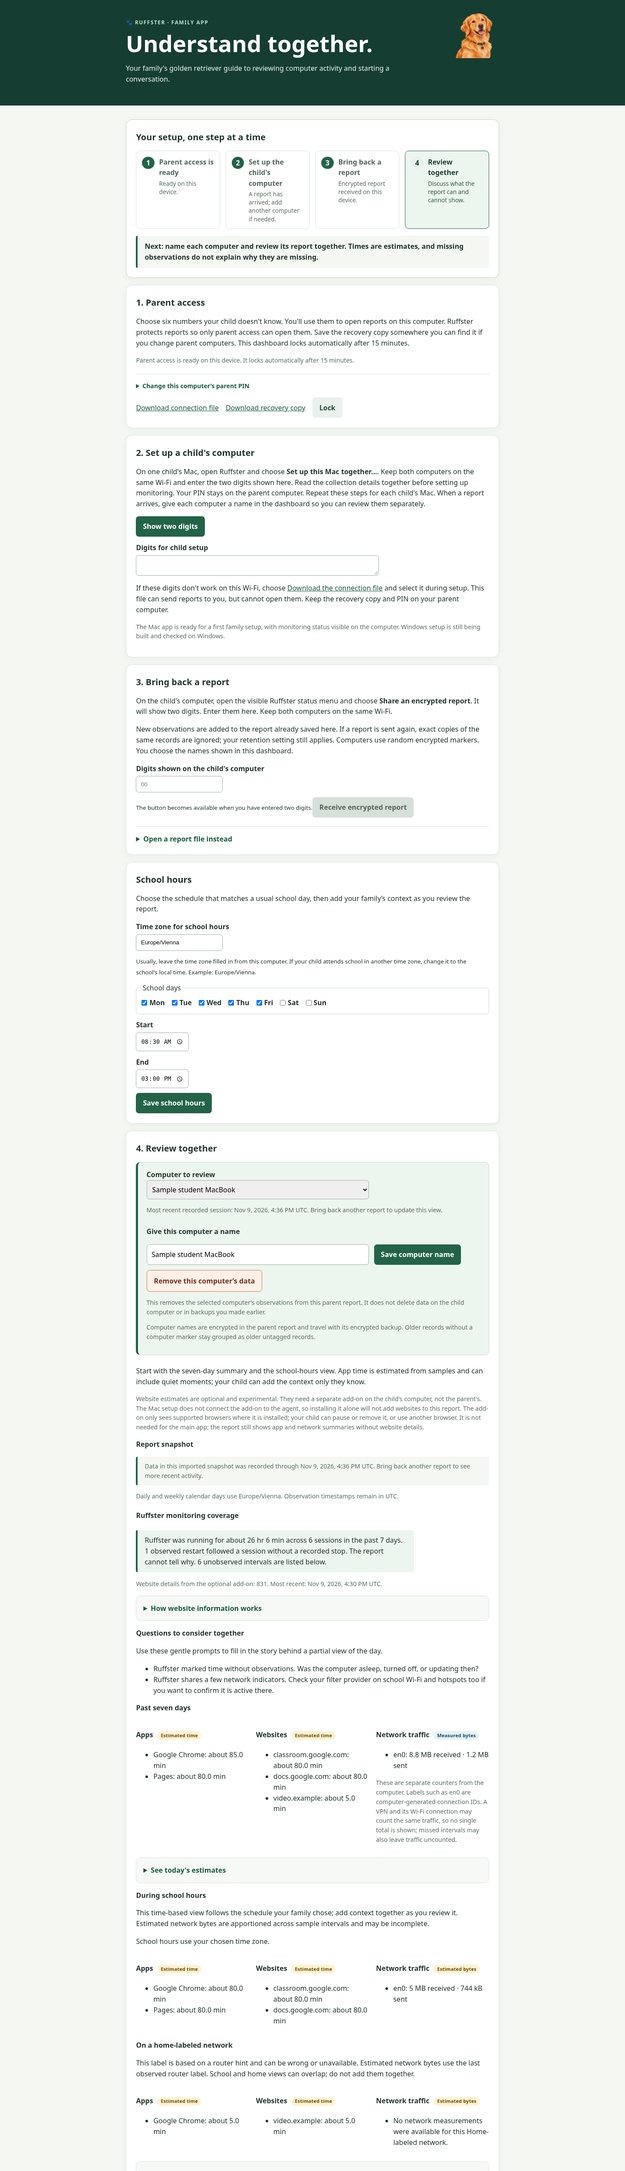
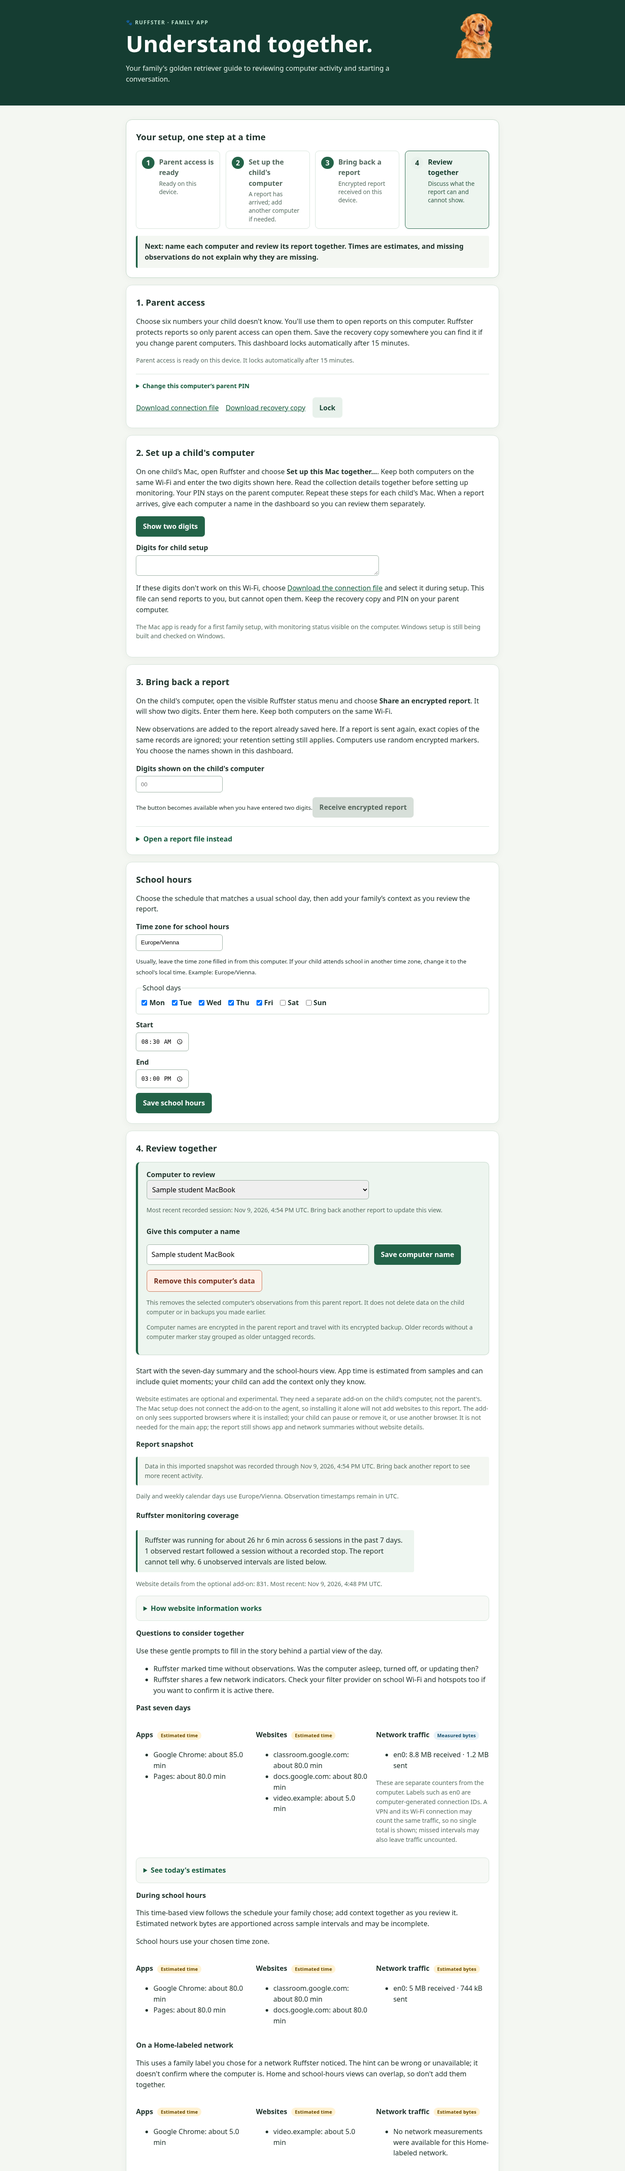
Publish Ruffster 0.1.25 family dashboard

Changed region(s): [[0.2188, 0.936, 0.375, 0.9984], [0.625, 0.936, 0.7812, 0.9984], [0.4375, 0.936, 0.5312, 0.9984]]

diff --git a/docs/progress.html b/docs/progress.html
@@ -35,15 +35,15 @@
    </section>
    <div class="wrap prose">
     <div class="notice">
-     <strong>Ruffster for Mac 0.1.24 is available for families.</strong>
-     The 0.1.24 release makes content-filtering guidance easier to follow across home Wi-Fi, school Wi-Fi, and hotspots, and explains that Ruffster settings are clues rather than proof. It also uses simpler family language for parent access. Its 17,657,002-byte disk image matches GitHub's published SHA-256 (<code>6f25bbab21bdf19c2b1a4d5219f8d70c9d7e22e8d34a7013b4215a55f96ce3e2</code>). Automated and synthetic checks are complete. A Mac sent a made-up encrypted report over home Wi-Fi to a temporary parent dashboard; the report opened there and stayed encrypted on disk. The published Mac dashboard also opened an encrypted synthetic report on the test Mac and showed its activity estimate. Mac parent key sharing worked over the home LAN with a synthetic client, and the packaged Mac client completed a same-Mac key handoff. These checks do not replace Mac-to-Mac setup and the first family report review. No family activity was used. <a href="https://github.com/mikeymckay/ruffster/releases/download/mac-family-0.1.24/Ruffster-Mac-Family-App-Apple-Silicon.dmg">Download Ruffster for Mac 0.1.24.</a> See the <a href="https://github.com/mikeymckay/ruffster/releases/tag/mac-family-0.1.24">release notes and checksum</a>.
+     <strong>Ruffster for Mac 0.1.25 is available for families.</strong>
+     The 0.1.25 release makes network labels easier to understand. Parents can label a recognized network Home, School, or Other; the report explains that these are family labels, not location checks. It keeps school-hour and network traffic views clearly marked as estimates. Its 17,655,499-byte disk image matches GitHub's published SHA-256 (<code>3bf0e9cd23266333141da69dae058007ec80515617d18225ce485e1120356d2c</code>). Automated and synthetic checks are complete. A Mac sent a made-up encrypted report over home Wi-Fi to a temporary parent dashboard; the report opened there and stayed encrypted on disk. The published Mac dashboard also opened an encrypted synthetic report on the test Mac and showed its activity estimate. Mac parent key sharing worked over the home LAN with a synthetic client, and the packaged Mac client completed a same-Mac key handoff. These checks do not replace Mac-to-Mac setup and the first family report review. No family activity was used. <a href="https://github.com/mikeymckay/ruffster/releases/download/mac-family-0.1.25/Ruffster-Mac-Family-App-Apple-Silicon.dmg">Download Ruffster for Mac 0.1.25.</a> See the <a href="https://github.com/mikeymckay/ruffster/releases/tag/mac-family-0.1.25">release notes and checksum</a>.
     </div>
     <h2>What is working</h2>
     <ol class="steps">
      <li><strong>Visible Mac monitoring.</strong> In a logged-in session, the Mac agent records synthetic foreground-app observations in parent-key-encrypted storage, shows a separate status companion, reconstructs an observable gap, restarts after a forced stop through launchd, and the parent report counts sessions that follow an unclosed monitoring session.</li>
-     <li><strong>Mac app and setup.</strong> Mac 0.1.24 describes the PIN as six numbers the child doesn't know and names the account that would be monitored in its setup confirmation and tells the parent to cancel if it is not the child's account. It waits for the first encrypted sample before confirming monitoring is ready. The child-visible collection disclosure explains what is recorded, what stays private, optional app network totals, and unknown monitoring interruptions. Setup explains that automatic cleanup keeps a rough day marker beside each encrypted record, while app names, network details, and exact times stay encrypted for the parent. In the parent report, empty website estimates are hidden when no website observations were included; the no-details note and explanation remain available. Its bundle resources are sealed with a local ad-hoc signature and strictly verified during the build; families still approve this Apple-silicon app once in macOS Privacy &amp; Security. If nearby-computer pairing fails, families can retry or choose the connection file from the same screen. Nearby-computer sharing also cleans up between attempts and avoids Windows reserved dynamic ports. The getting-started guide now follows parent access, child-account setup, and report sharing in three steps; the setup copy explains how to show a new pair of digits if the first pair stops working. Automated tests, app packaging, startup/restart, encrypted sample activity, a coverage gap, update restart, and removal were checked with synthetic data. The last confirmed install was Mac 0.1.20 in shared Applications on the family Mac. SSH has timed out since; 0.1.24 is not confirmed installed there. Visible child-account setup, parent-key connection, and the first family report remain outstanding. No monitoring or family activity is verified yet.</li>
+     <li><strong>Mac app and setup.</strong> Mac 0.1.25 describes the PIN as six numbers the child doesn't know and names the account that would be monitored in its setup confirmation and tells the parent to cancel if it is not the child's account. It waits for the first encrypted sample before confirming monitoring is ready. The child-visible collection disclosure explains what is recorded, what stays private, optional app network totals, and unknown monitoring interruptions. Setup explains that automatic cleanup keeps a rough day marker beside each encrypted record, while app names, network details, and exact times stay encrypted for the parent. In the parent report, empty website estimates are hidden when no website observations were included; the no-details note and explanation remain available. Its bundle resources are sealed with a local ad-hoc signature and strictly verified during the build; families still approve this Apple-silicon app once in macOS Privacy &amp; Security. If nearby-computer pairing fails, families can retry or choose the connection file from the same screen. Nearby-computer sharing also cleans up between attempts and avoids Windows reserved dynamic ports. The getting-started guide now follows parent access, child-account setup, and report sharing in three steps; the setup copy explains how to show a new pair of digits if the first pair stops working. Automated tests, app packaging, startup/restart, encrypted sample activity, a coverage gap, update restart, and removal were checked with synthetic data. The last confirmed install was Mac 0.1.20 in shared Applications on the family Mac. SSH has timed out since; 0.1.25 is not confirmed installed there. Visible child-account setup, parent-key connection, and the first family report remain outstanding. No monitoring or family activity is verified yet.</li>
      <li><strong>Parent dashboard and reports.</strong> Parents can unlock reports, set school hours and retention, receive encrypted reports, keep computers separate, and review clearly labeled estimates and measured counters. An unlocked parent can change this computer's PIN while keeping the same reports and child computers; Ruffster asks them to save a new recovery copy before the next child setup.</li>
-     <li><strong>Automated checks.</strong> The latest full local suite ran 305 tests: 300 passed and five platform/tool checks were skipped on the Linux development host. The website accessibility scan checks all four public pages plus synthetic first-run, PIN-change, and populated parent-dashboard screens with and without website details at desktop and phone sizes; all 16 scans found zero Axe violations. GitHub CI run <a href="https://github.com/mikeymckay/ruffster/actions/runs/42653085751">42653085751</a> passed Linux, macOS, all Windows test groups, and both package builds. The updated install guide was checked live after its Pages deployment. The 0.1.24 Mac release <a href="https://github.com/mikeymckay/ruffster/actions/runs/42657100301">42657100301</a> published a DMG whose SHA-256 matches the release sidecar. Hosted CI cannot verify an interactive Task Scheduler session, so the real Windows agent lifecycle still needs a logged-in Windows computer.</li>
+     <li><strong>Automated checks.</strong> The latest full local suite ran 306 tests: 301 passed and five platform/tool checks were skipped on the Linux development host. The website accessibility scan checks all four public pages plus synthetic first-run, PIN-change, and populated parent-dashboard screens with and without website details at desktop and phone sizes; all 16 scans found zero Axe violations. GitHub CI run <a href="https://github.com/mikeymckay/ruffster/actions/runs/42653085751">42653085751</a> passed Linux, macOS, all Windows test groups, and both package builds. The updated install guide was checked live after its Pages deployment. The 0.1.25 Mac release <a href="https://github.com/mikeymckay/ruffster/actions/runs/42660052908">42660052908</a> published a DMG whose SHA-256 matches the release sidecar. Hosted CI cannot verify an interactive Task Scheduler session, so the real Windows agent lifecycle still needs a logged-in Windows computer.</li>
      <li><strong>Windows family setup.</strong> A per-user setup, visible tray indicator, parent dashboard launcher, and update flow are implemented. The hosted package check skips the live scheduled-task test; local Windows builds keep that check enabled. The complete setup and report sharing still need a hands-on family-computer review before a Windows download is offered.</li>
     </ol>
     <h2>What we’re improving next</h2>
@@ -55,8 +55,8 @@
     </ul>
     <p>The <a href="install.html">Getting started guide</a> walks through the Mac family setup. Windows is next.</p>
     <h2>Current automated test results</h2>
-    <p><strong>Local suite:</strong> 305 tests ran on the Linux development host: 300 passed and five platform/tool checks were skipped. GitHub Actions run <a href="https://github.com/mikeymckay/ruffster/actions/runs/42653085751">42653085751</a> passed Linux, macOS, all Windows test groups, and both package smoke builds. The 0.1.24 Mac release workflow <a href="https://github.com/mikeymckay/ruffster/actions/runs/42657100301">42657100301</a> published the app and checksum. GitHub Pages deploys this guide after the desktop and phone accessibility scan passes.</p>
-    <p><strong>Hands-on limits:</strong> Mac-to-dashboard transfer worked with made-up activity on the home Wi-Fi. The last confirmed app on the family Mac is 0.1.20 in shared Applications; its SSH session is the admin account, and SSH has timed out on recent attempts. The 0.1.24 release is available but is not confirmed installed there. Its setup confirmation names the account being configured. Mac 0.1.24 hides empty website lists unless website observations exist, while keeping an explanation visible. App names, network details, and exact times remain encrypted. The child-account first-run disclosure, parent-key connection, and first encrypted family report still need a family try. No monitoring agent is verified as running and no family activity has been collected. The Windows setup and interactive agent still need a review on a logged-in Windows computer.</p>
+    <p><strong>Local suite:</strong> 306 tests ran on the Linux development host: 301 passed and five platform/tool checks were skipped. GitHub Actions run <a href="https://github.com/mikeymckay/ruffster/actions/runs/42653085751">42653085751</a> passed Linux, macOS, all Windows test groups, and both package smoke builds. The 0.1.25 Mac release workflow <a href="https://github.com/mikeymckay/ruffster/actions/runs/42660052908">42660052908</a> published the app and checksum. GitHub Pages deploys this guide after the desktop and phone accessibility scan passes.</p>
+    <p><strong>Hands-on limits:</strong> Mac-to-dashboard transfer worked with made-up activity on the home Wi-Fi. The last confirmed app on the family Mac is 0.1.20 in shared Applications; its SSH session is the admin account, and SSH has timed out on recent attempts. The 0.1.25 release is available but is not confirmed installed there. Its setup confirmation names the account being configured. Mac 0.1.25 hides empty website lists unless website observations exist, while keeping an explanation visible. App names, network details, and exact times remain encrypted. The child-account first-run disclosure, parent-key connection, and first encrypted family report still need a family try. No monitoring agent is verified as running and no family activity has been collected. The Windows setup and interactive agent still need a review on a logged-in Windows computer.</p>
     <p><strong>Website:</strong> the home page, getting-started guide, Progress page, FAQ, first-run parent dashboard, PIN-change form, and populated parent reports with and without website details passed desktop and phone accessibility scans locally with zero Axe violations and no horizontal overflow. <a href="https://mikeymckay.github.io/ruffster/">Visit the published website</a>.</p>
     <h2>What a Ruffster report looks like</h2>
     <p>These examples use made-up parent and activity data to show the current setup and report screens.</p>

diff --git a/docs/install.html b/docs/install.html
@@ -75,7 +75,7 @@
     </p>
     <div class="notice">
      <strong>Get the Mac app.</strong>
-     <a href="https://github.com/mikeymckay/ruffster/releases/download/mac-family-0.1.24/Ruffster-Mac-Family-App-Apple-Silicon.dmg">Download Ruffster for Mac 0.1.24 (Apple silicon, .dmg)</a>. See the <a href="https://github.com/mikeymckay/ruffster/releases/tag/mac-family-0.1.24">release notes, source, and SHA-256 checksum</a>.
+     <a href="https://github.com/mikeymckay/ruffster/releases/download/mac-family-0.1.25/Ruffster-Mac-Family-App-Apple-Silicon.dmg">Download Ruffster for Mac 0.1.25 (Apple silicon, .dmg)</a>. See the <a href="https://github.com/mikeymckay/ruffster/releases/tag/mac-family-0.1.25">release notes, source, and SHA-256 checksum</a>.
     </div>
     <details>
      <summary>Opening Ruffster the first time</summary>
@@ -120,7 +120,7 @@
      macOS
     </h3>
     <p>
-     Mac 0.1.24 includes background monitoring, a visible menu-bar status, parent-encrypted activity, and a local dashboard with monitoring time, observable gaps, and restarts after an unclosed monitoring session. The parent dashboard explains its PIN in simple family terms: choose six numbers your child doesn't know, and keep the recovery copy somewhere you can find it. Parents can change the PIN on an unlocked computer without changing the parent key; they save a fresh recovery copy before the next child setup. Setup names the signed-in account in the confirmation and asks families to cancel if it isn't the child's account. It also explains what is collected and what stays private in shorter, clearer language. The content-filtering section explains what network settings can suggest, how home Wi-Fi differs from school Wi-Fi and hotspots, and why school-managed settings are best discussed before changing. The parent report says when website details are absent and hides their empty lists while leaving the explanation available. Setup explains that monitoring waits for the first encrypted sample, and that automatic cleanup uses a rough day marker while app names, network details, and exact times stay encrypted for the parent. If nearby-computer pairing does not work, choose a connection file from the same screen. The app bundle is sealed and strictly verified during the Mac build; families still approve this Apple-silicon app once in macOS Privacy & Security. Automated checks and synthetic report flows passed; the first family setup and report exchange are the next hands-on checks. VoiceOver and physical sleep/wake still need review.
+     Mac 0.1.25 includes background monitoring, a visible menu-bar status, parent-encrypted activity, and a local dashboard with monitoring time, observable gaps, and restarts after an unclosed monitoring session. The parent dashboard explains its PIN in simple family terms: choose six numbers your child doesn't know, and keep the recovery copy somewhere you can find it. Parents can change the PIN on an unlocked computer without changing the parent key; they save a fresh recovery copy before the next child setup. Setup names the signed-in account in the confirmation and asks families to cancel if it isn't the child's account. It also explains what is collected and what stays private in shorter, clearer language. The report calls these family network labels rather than location checks, and keeps the school-hour and network traffic views marked as estimates. The parent report says when website details are absent and hides their empty lists while leaving the explanation available. Setup explains that monitoring waits for the first encrypted sample, and that automatic cleanup uses a rough day marker while app names, network details, and exact times stay encrypted for the parent. If nearby-computer pairing does not work, choose a connection file from the same screen. The app bundle is sealed and strictly verified during the Mac build; families still approve this Apple-silicon app once in macOS Privacy & Security. Automated checks and synthetic report flows passed; the first family setup and report exchange are the next hands-on checks. VoiceOver and physical sleep/wake still need review.
     </p>
     <h3>
      Windows

diff --git a/tests/test_docs_site.py b/tests/test_docs_site.py
@@ -252,8 +252,8 @@ class DocumentationSiteTests(unittest.TestCase):
         self.assertIn('Open parent dashboard', guide)
         self.assertIn('Set up this Mac together', guide)
         self.assertIn('background monitoring, a visible menu-bar status', guide)
-        self.assertIn('https://github.com/mikeymckay/ruffster/releases/download/mac-family-0.1.24/Ruffster-Mac-Family-App-Apple-Silicon.dmg', guide)
-        self.assertIn('https://github.com/mikeymckay/ruffster/releases/tag/mac-family-0.1.24', guide)
+        self.assertIn('https://github.com/mikeymckay/ruffster/releases/download/mac-family-0.1.25/Ruffster-Mac-Family-App-Apple-Silicon.dmg', guide)
+        self.assertIn('https://github.com/mikeymckay/ruffster/releases/tag/mac-family-0.1.25', guide)
         self.assertIn('Open Anyway</strong> for Ruffster', guide)
         self.assertIn('your Mac’s general app protections stay on', guide)
         self.assertIn('Ruffster can stay in the shared Applications folder', guide)
@@ -566,21 +566,21 @@ class DocumentationSiteTests(unittest.TestCase):
 
     def test_progress_page_reports_current_family_release_and_validation_gates(self):
         status = (SITE / 'progress.html').read_text(encoding='utf-8')
-        self.assertIn('Ruffster for Mac 0.1.24 is available for families', status)
+        self.assertIn('Ruffster for Mac 0.1.25 is available for families', status)
         self.assertIn('What we’re improving next', status)
-        self.assertIn('Download Ruffster for Mac 0.1.24', status)
+        self.assertIn('Download Ruffster for Mac 0.1.25', status)
         self.assertIn('Visible child-account setup, parent-key connection, and the first family report remain outstanding', status)
         self.assertIn('The published Mac dashboard also opened an encrypted synthetic report', status)
         self.assertIn('Mac parent key sharing worked over the home LAN with a synthetic client', status)
         self.assertIn('the packaged Mac client completed a same-Mac key handoff', status)
         self.assertIn('These checks do not replace Mac-to-Mac setup', status)
-        self.assertIn('305 tests: 300 passed and five platform/tool checks were skipped', status)
+        self.assertIn('306 tests: 301 passed and five platform/tool checks were skipped', status)
         self.assertIn('synthetic first-run, PIN-change, and populated parent-dashboard screens with and without website details', status)
         self.assertIn('zero Axe violations and no horizontal overflow', status)
         self.assertIn('<h2>Current automated test results</h2>', status)
-        self.assertIn('305 tests ran on the Linux development host: 300 passed and five platform/tool checks were skipped', status)
+        self.assertIn('306 tests ran on the Linux development host: 301 passed and five platform/tool checks were skipped', status)
         self.assertIn('42653085751', status)
-        self.assertIn('42657100301', status)
+        self.assertIn('42660052908', status)
         self.assertIn('GitHub Pages deploys this guide after the desktop and phone accessibility scan passes', status)
         self.assertIn('first-run parent dashboard, PIN-change form, and populated parent reports with and without website details', status)
         self.assertNotIn('293 tests', status)

diff --git a/PLAN.md b/PLAN.md
@@ -16,7 +16,7 @@ Ruffster helps parents and children understand computer use together, especially
 
 The Apple-silicon app includes a native welcome/setup screen, visible menu-bar status, foreground-app sampling, network counters and settings, launchd restart, encrypted collection, parent dashboard, report sharing, retention, recovery, update restart, and removal. The dashboard records runtime, gaps, and starts after a session without a stop record; it explains that the cause is unknown. Setup now waits for launchd to keep the agent alive and save a fresh encrypted sample before confirming that monitoring is ready. If nearby-computer pairing fails, the Mac setup screen offers a retry or connection-file choice and explains the local-network permission. Pairing also reopens cleanly after a one-use transfer; its Windows UDP port avoids the OS dynamic-port range.
 
[2 lines of base64/hex data omitted]
 
 **Next:** complete visible setup from the intended child account and parent dashboard, then inspect the first encrypted report together. The Mac is configured not to sleep on AC power and to stay awake during active SSH sessions; verify that behavior during a hands-on session while plugged in. Review sleep/wake gaps, local-network prompts, VoiceOver, recovery, update, and removal.
 
@@ -51,4 +51,4 @@ Before describing Ruffster as a supported family release, complete hands-on Mac 
 
 ## Latest shipped step — 2026-11-09
 
[2 lines of base64/hex data omitted]

diff --git a/README.md b/README.md
@@ -4,9 +4,9 @@
 
 <p align="center"><img src="docs/assets/ruffster-mascot.webp" alt="Ruffster golden retriever mascot" width="190"></p>
 
-**Ruffster for Mac 0.1.24 is available for families.** Start on the parent Mac, choose six numbers your child doesn't know, and save the recovery copy somewhere you can find it. The app can stay in the shared Applications folder; monitoring is set up for the child's signed-in account only. Sign in to that account, open Ruffster, and set it up together. The setup screen confirms which account it will monitor and waits for the first encrypted sample; the menu-bar paw shows monitoring status. Parents review encrypted reports in the local dashboard and can bring them back over the same Wi-Fi or with a report file. macOS asks families to approve this unsigned Apple-silicon app once in Privacy & Security; the guide walks through it. Windows setup and packaging pass automated checks, and still need review on a logged-in Windows computer before a Windows download is offered.
+**Ruffster for Mac 0.1.25 is available for families.** Start on the parent Mac, choose six numbers your child doesn't know, and save the recovery copy somewhere you can find it. The app can stay in the shared Applications folder; monitoring is set up for the child's signed-in account only. Sign in to that account, open Ruffster, and set it up together. The setup screen confirms which account it will monitor and waits for the first encrypted sample; the menu-bar paw shows monitoring status. Parents review encrypted reports in the local dashboard and can bring them back over the same Wi-Fi or with a report file. macOS asks families to approve this unsigned Apple-silicon app once in Privacy & Security; the guide walks through it. Windows setup and packaging pass automated checks, and still need review on a logged-in Windows computer before a Windows download is offered.
 
-[Download Ruffster for Mac 0.1.24 (.dmg)](https://github.com/mikeymckay/ruffster/releases/download/mac-family-0.1.24/Ruffster-Mac-Family-App-Apple-Silicon.dmg) · [Release notes and checksum](https://github.com/mikeymckay/ruffster/releases/tag/mac-family-0.1.24) · [How to get started](https://mikeymckay.github.io/ruffster/install.html)
+[Download Ruffster for Mac 0.1.25 (.dmg)](https://github.com/mikeymckay/ruffster/releases/download/mac-family-0.1.25/Ruffster-Mac-Family-App-Apple-Silicon.dmg) · [Release notes and checksum](https://github.com/mikeymckay/ruffster/releases/tag/mac-family-0.1.25) · [How to get started](https://mikeymckay.github.io/ruffster/install.html)
 
 [Project website](https://mikeymckay.github.io/ruffster/) · [Install guide](https://mikeymckay.github.io/ruffster/install.html) · [Progress page](https://mikeymckay.github.io/ruffster/progress.html) · [FAQ](https://mikeymckay.github.io/ruffster/faq.html) · [Privacy and children's rights](PRIVACY-AND-CHILDREN.md) · [Implementation plan](PLAN.md)
 

diff --git a/VALIDATION.md b/VALIDATION.md
@@ -1,5 +1,9 @@
 # Real-machine validation
 
+## 2026-11-09: Publish Mac 0.1.25 with simpler network labels
+
[1 lines of base64/hex data omitted]
+
 ## 2026-11-09: Publish Mac 0.1.24 with clearer filtering guidance
 
[1 lines of base64/hex data omitted]
